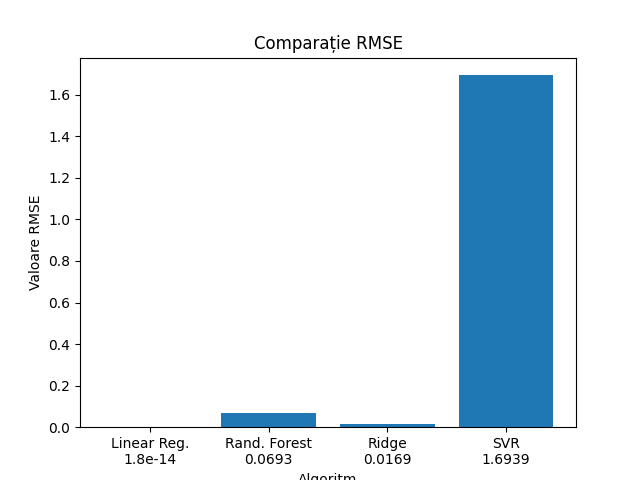
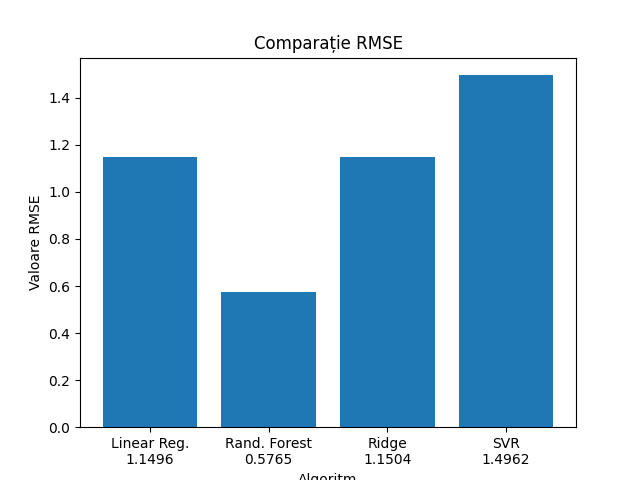
Finalizeaza Train
Adauga script predict
Adauga grafice

diff --git a/backend/predict.py b/backend/predict.py
@@ -1,0 +1,31 @@
+import feature_extraction
+from train import Train, Predictor
+from preprocessor import Preprocessor
+import sys
+import os
+import zipfile
+
+
+
+
+def main():
+    cwd = os.getcwd()
+    prep = Preprocessor()
+    pred = Predictor()
+
+    archive_full_path = os.path.join(cwd, sys.argv[1])
+    extraction_full_path = os.path.join(cwd, "/archive")
+
+    with zipfile.ZipFile(archive_full_path, "r") as zip_file:
+        zip_file.extractall(extraction_full_path)
+
+    features = feature_extraction.retrain_data_one(extraction_full_path + "/")
+    features = prep.transform_entry(features)
+
+    grade = pred.predict([features])[0]
+    grade = round(grade, 2)
+
+    print("Grade is: ", grade)
+
+if __name__ == "__main__":
+    main()

diff --git a/backend/train.py b/backend/train.py
@@ -26,7 +26,7 @@ class Train:
             self.regressor = LinearRegression()
 
         #TODO(@apostolescus)
-        self.x, self.y = Preprocessor().get_dataset()
+        self.x, self.y, self.test_data, _ = Preprocessor().get_dataset()
 
     # False to get test data, True to get train data
     def _get_test_train_data(self, train):
